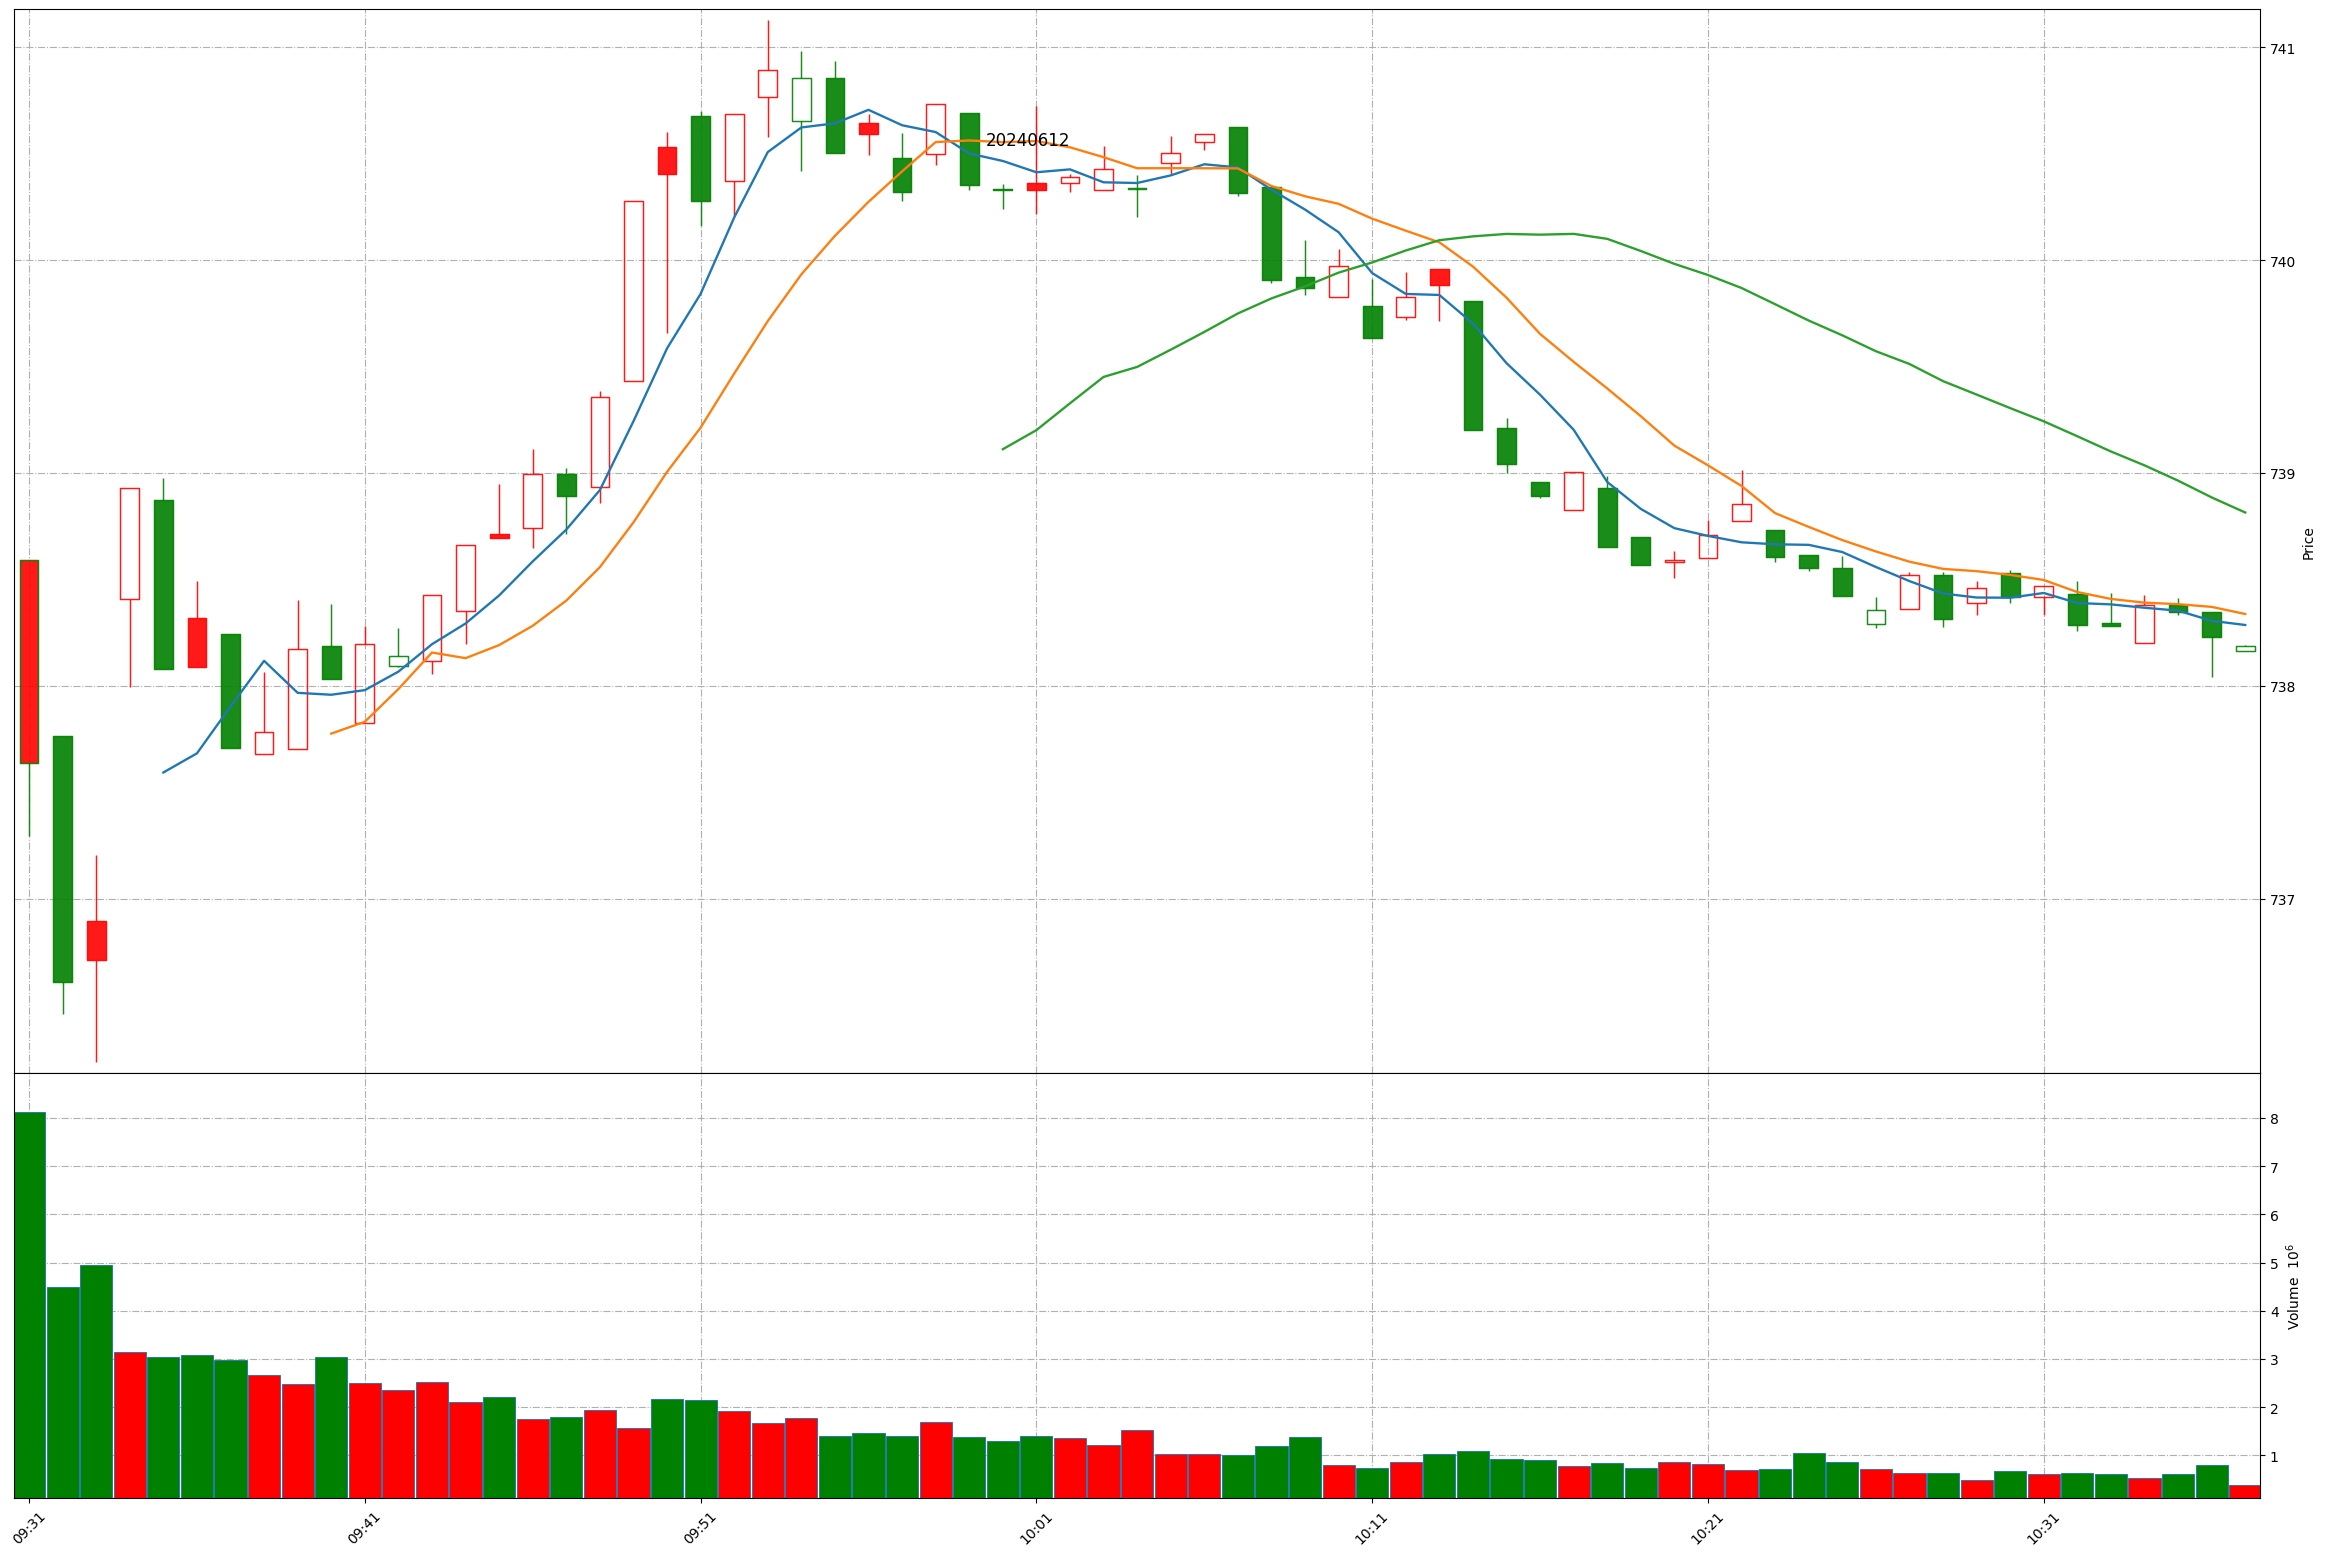
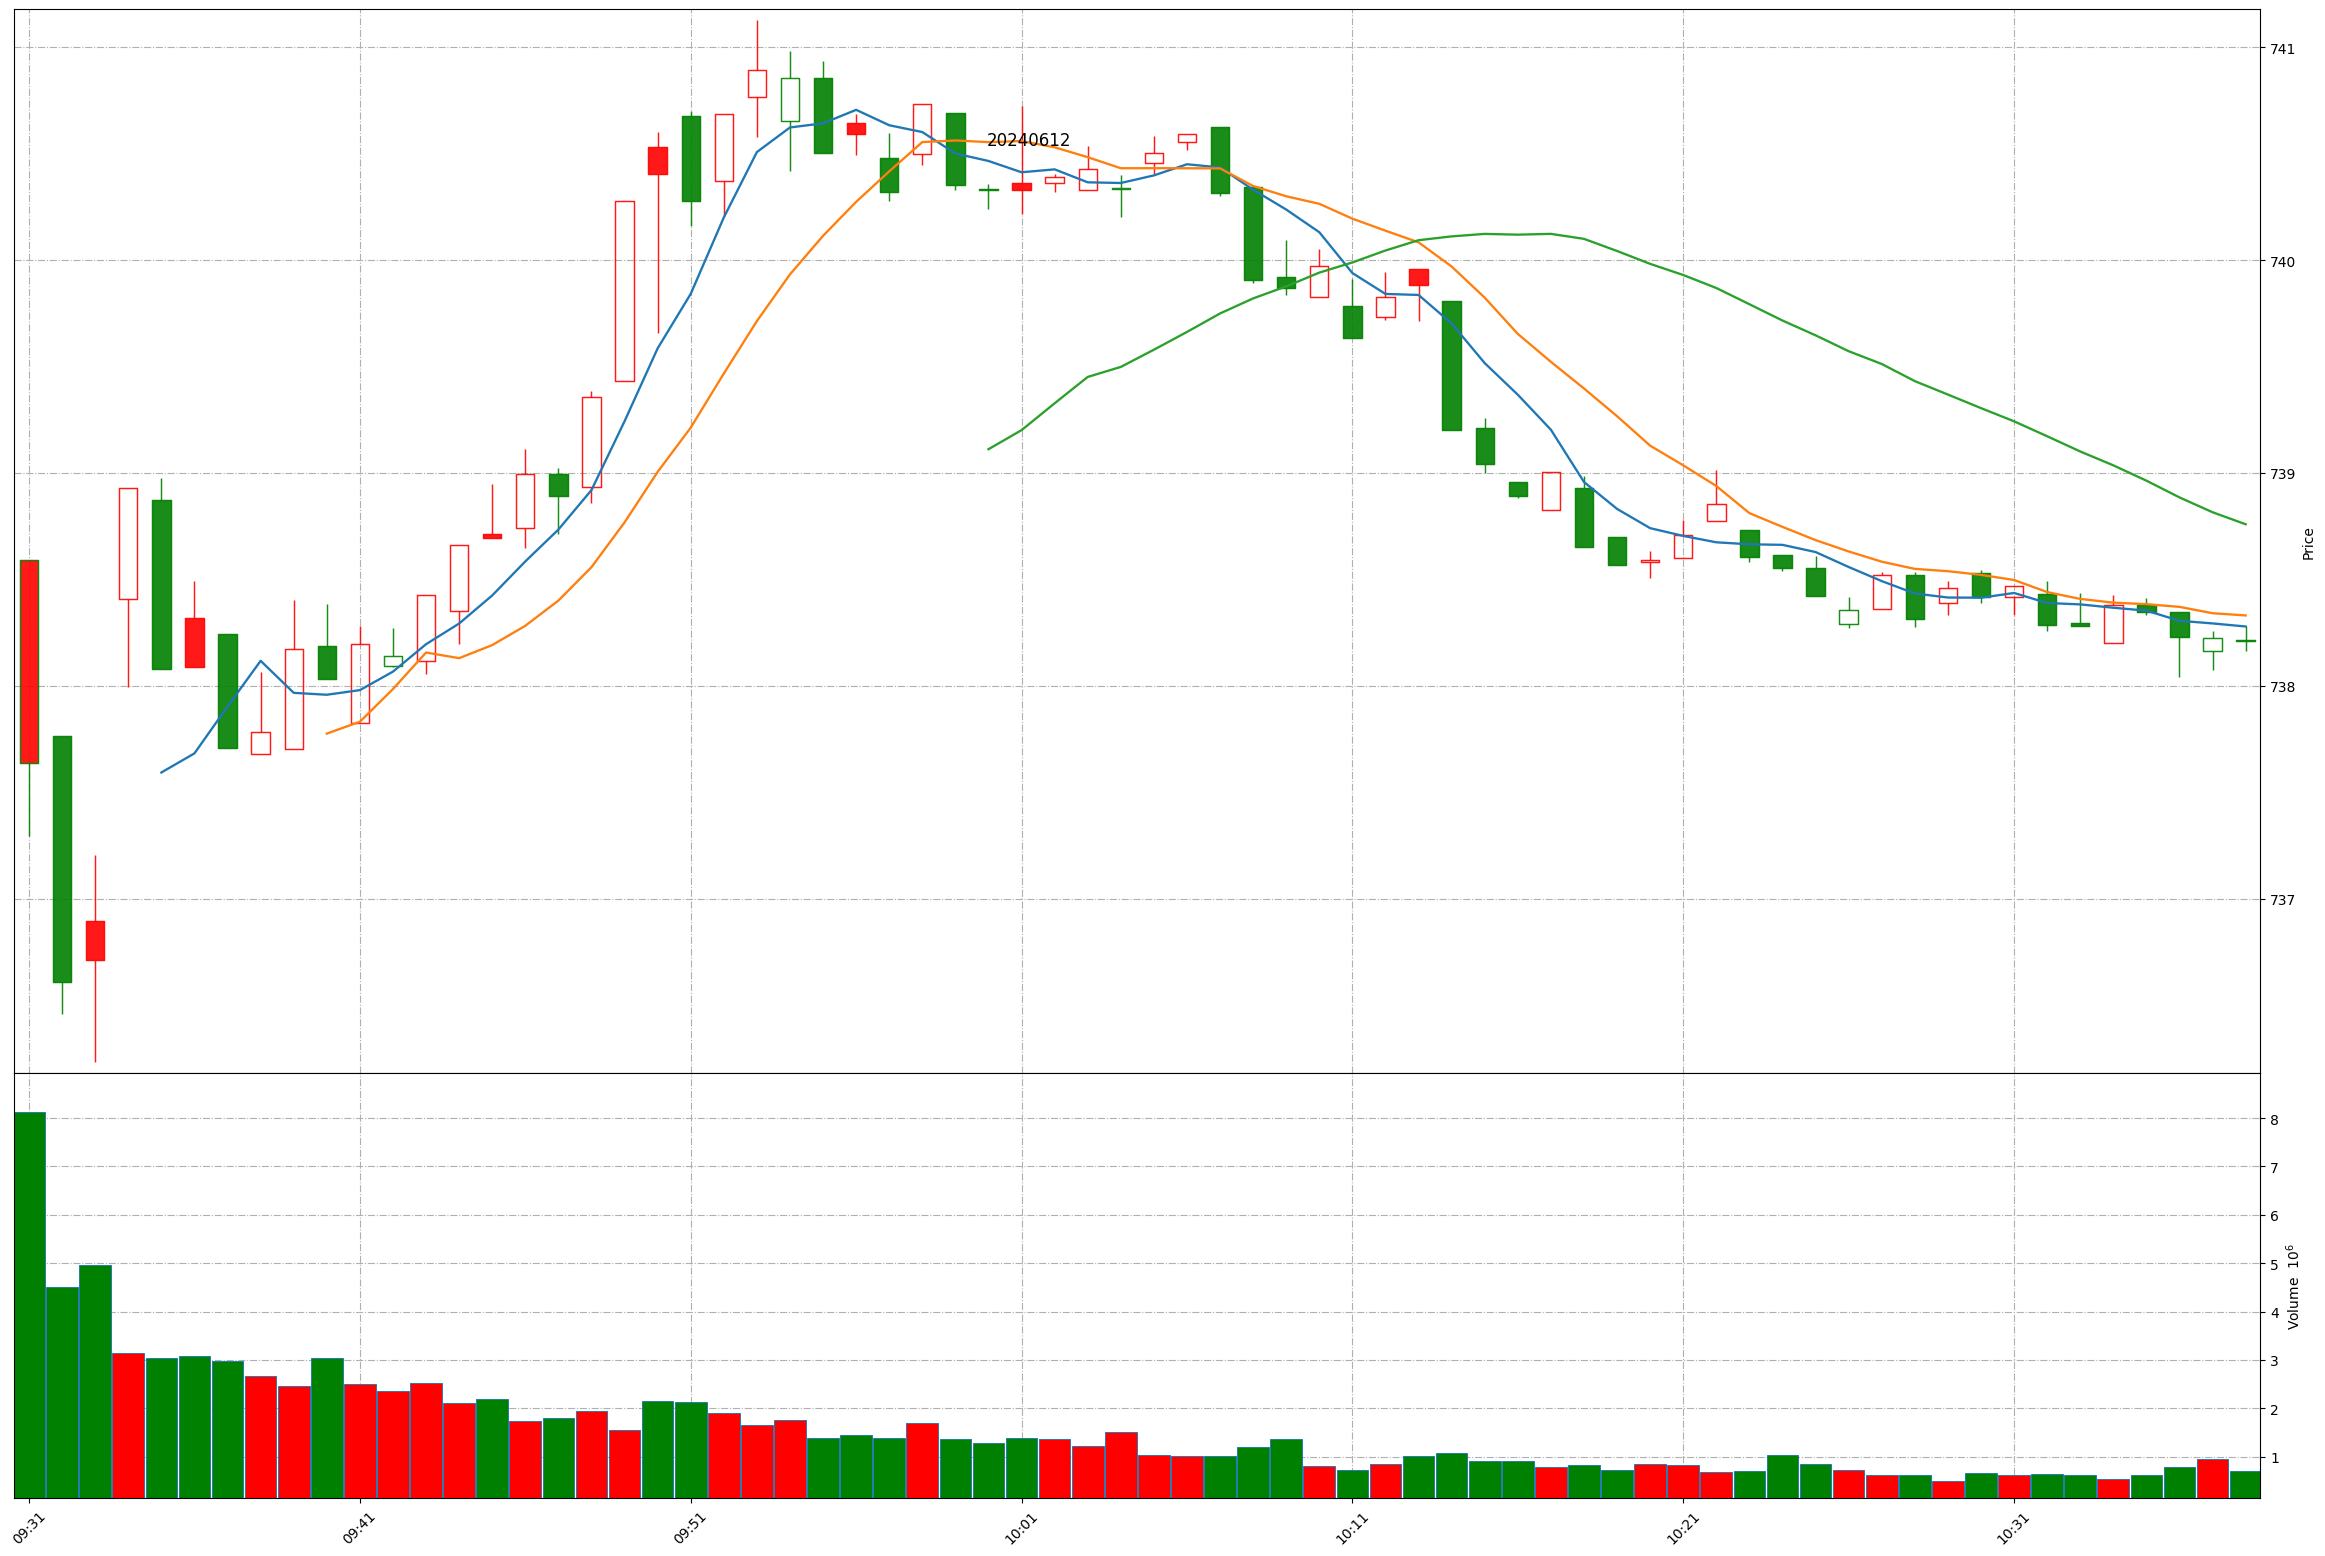
Github action update at 2024-06-12 10:37:59.

diff --git a/README.md b/README.md
@@ -1,11 +1,11 @@
 
 # Daily-A-share-market-quotes 每日 A 股指数（5min 更新）- 20240612
 
-### 上证指数 20240612 10:36
+### 上证指数 20240612 10:37
 ![](./fig/2024/6/20240612-sh000001.png)
 
-### 深证成指 20240612 10:36
+### 深证成指 20240612 10:37
 ![](./fig/2024/6/20240612-sz399001.png)
 
-### 北证50 20240612 10:36
+### 北证50 20240612 10:37
 ![](./fig/2024/6/20240612-bj899050.png)
